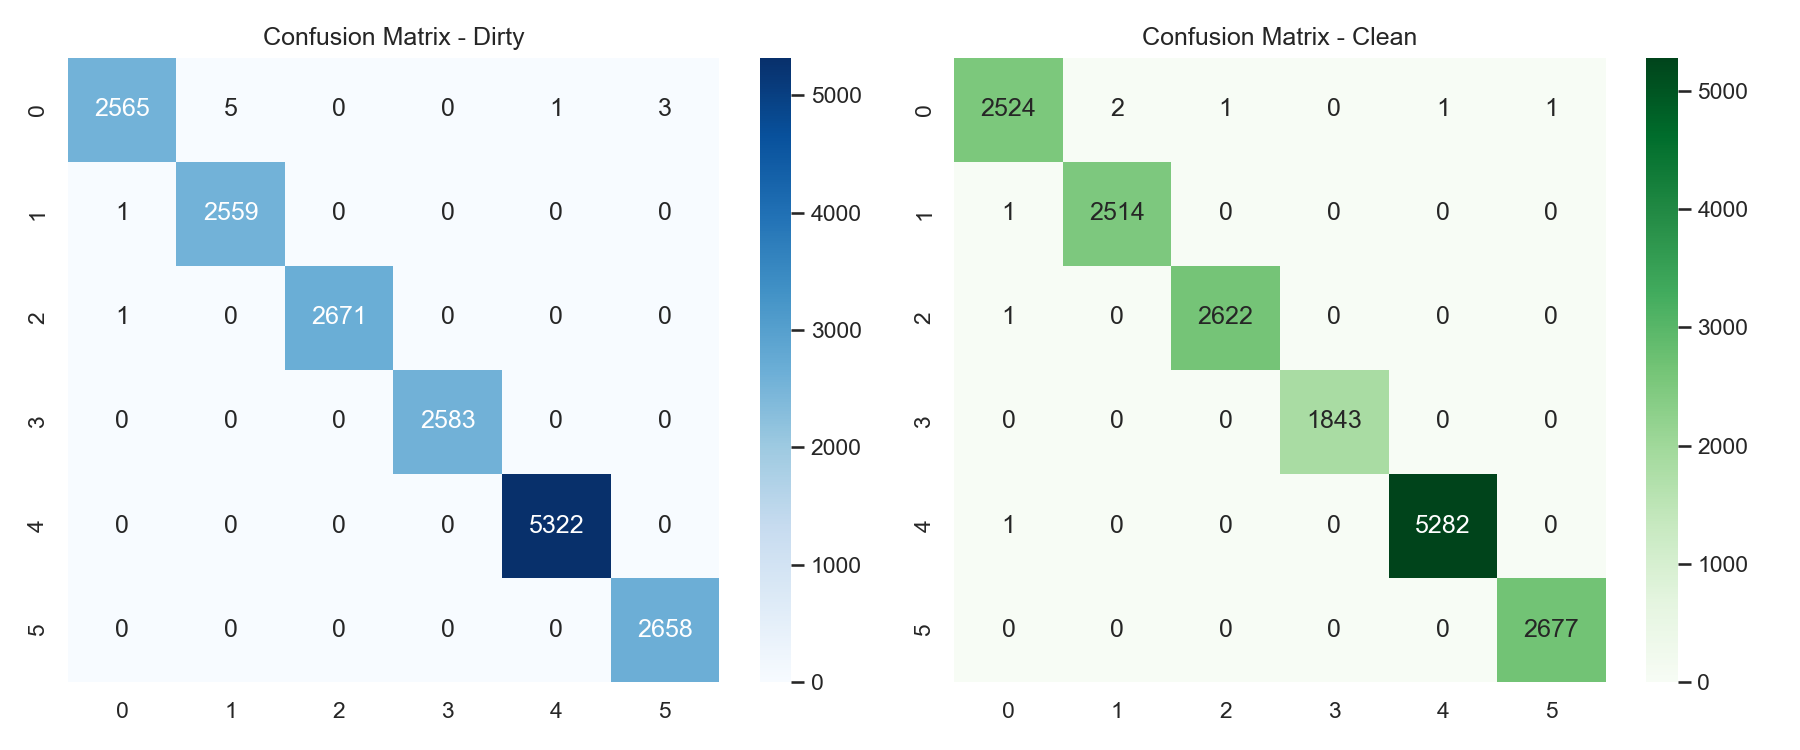
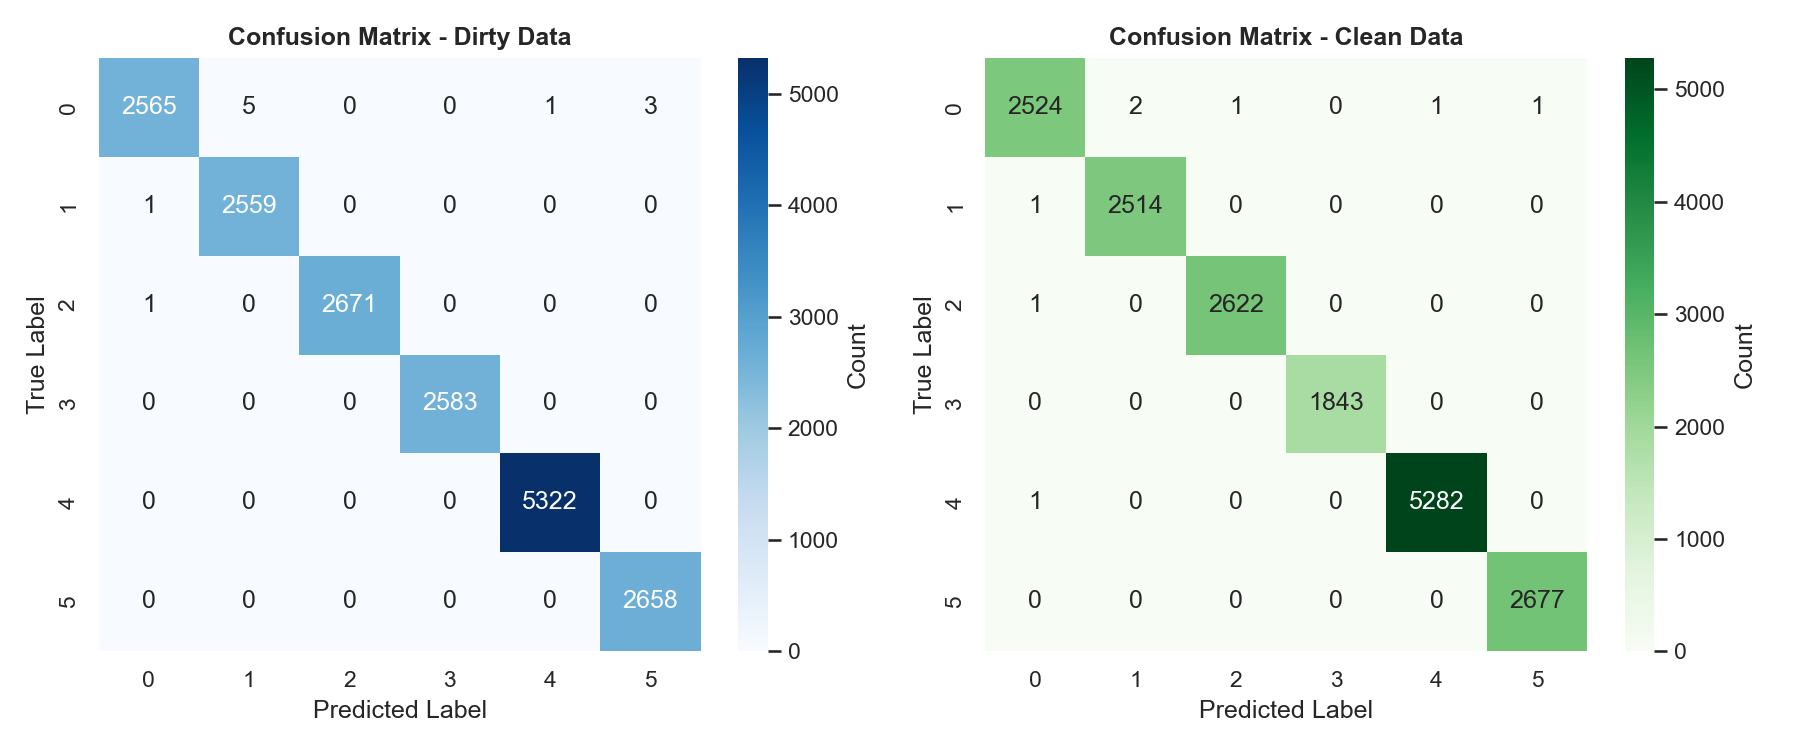
Implement evaluation, outlier detection, preprocessing, and visualization modules for classification performance analysis
- Added Evaluator class for assessing classification performance metrics and improvements between clean and dirty datasets.
- Introduced OutlierDetector class utilizing Isolation Forest for outlier detection in datasets.
- Developed Preprocessor class for handling missing values, encoding categorical features, and scaling numerical features.
- Created Visualizer class for plotting results, including outlier detection steps and performance metrics visualization.
- Enhanced modularity and reusability of code for better data analysis workflows.

diff --git a/gelombang/src/evaluator.py b/gelombang/src/evaluator.py
@@ -1,104 +1,106 @@
 from typing import Tuple, Dict
+import os
 import pandas as pd
 from sklearn.tree import DecisionTreeClassifier
 from sklearn.model_selection import train_test_split
-from sklearn.metrics import accuracy_score, confusion_matrix
+from sklearn.metrics import accuracy_score, confusion_matrix, classification_report, precision_score, recall_score, f1_score
 import matplotlib.pyplot as plt
 import seaborn as sns
 
+# ==========================================
+# 5. CLASS EVALUATOR
+# ==========================================
 class Evaluator:
-    """
-    Evaluates data quality improvement by comparing classifier performance 
-    between raw (dirty) data and cleaned (after outlier removal) data.
-
-    Journal Objective:
-    - Evaluate effectiveness of preprocessing method (outlier detection).
-    - Model performance is NOT the focus; the comparison is.
-    """
-
+    """Evaluate classification performance improvement (Clean vs Dirty)."""
+    
     def __init__(self, df_labeled: pd.DataFrame, target_col: str = 'Location'):
         self.df = df_labeled.copy()
         self.target_col = target_col
 
-    def _train_dt(
-        self, 
-        X: pd.DataFrame, 
-        y: pd.Series, 
-        random_state: int = 42,
-        max_depth: int = None      # sesuai jurnal: tidak dibatasi
-    ) -> Tuple[float, pd.Series, pd.Series]:
-        """
-        Train a Decision Tree classifier.
-        Default max_depth=None (as per journal: unrestricted tree).
-        """
-        X_train, X_test, y_train, y_test = train_test_split(
-            X, y, test_size=0.3, random_state=random_state
-        )
+    def evaluate(self):
+        print('\n' + '='*60)
+        print(f"⚖  [5] EVALUASI PERFORMA (KLASIFIKASI)")
+        print('='*60)
 
-        dt = DecisionTreeClassifier(
-            max_depth=max_depth,
-            random_state=random_state
-        )
-        dt.fit(X_train, y_train)
-        preds = dt.predict(X_test)
-        acc = accuracy_score(y_test, preds)
-
-        return acc, y_test, preds
-
-    def compare_dirty_clean(self) -> Dict:
-        """
-        Compare classification accuracy between:
-        - Dirty data (raw, with outliers)
-        - Clean data (outliers removed)
-
-        This is exactly what the journal evaluates:
-        whether preprocessing improves data quality.
-        """
-
-        # RAW (Dirty)
-        X_dirty = self.df.drop(columns=[self.target_col, 'is_outlier'])
+        # Hapus kolom bantuan yang tidak boleh masuk training
+        cols_to_drop = ['is_outlier', 'anomaly_score', self.target_col]
+        
+        # 1. Dataset Kotor (Raw)
+        X_dirty = self.df.drop(columns=cols_to_drop)
         y_dirty = self.df[self.target_col]
 
-        # CLEAN
+        # 2. Dataset Bersih (Clean)
         df_clean = self.df[self.df['is_outlier'] == 0]
-        X_clean = df_clean.drop(columns=[self.target_col, 'is_outlier'])
+        X_clean = df_clean.drop(columns=cols_to_drop)
         y_clean = df_clean[self.target_col]
+        
+        # 3. Train & Evaluate
+        metrics_dirty, model_dirty, ytest_dirty, preds_dirty = self._train_predict(X_dirty, y_dirty, "DATA KOTOR")
+        metrics_clean, model_clean, ytest_clean, preds_clean = self._train_predict(X_clean, y_clean, "DATA BERSIH")
+        
+        # 4. Tampilkan Tabel Perbandingan
+        print("\n🏆 KESIMPULAN AKHIR (PERBANDINGAN METRIK):")
+        print("-" * 75)
+        print(f"{'METRIC':<15} | {'RAW DATA':<12} | {'CLEAN DATA':<12} | {'IMPROVEMENT':<12}")
+        print("-" * 75)
+        for m in ['Accuracy', 'Precision', 'Recall', 'F1-Score']:
+            val_dirty = metrics_dirty[m]
+            val_clean = metrics_clean[m]
+            imp = val_clean - val_dirty
+            sign = "+" if imp > 0 else ""
+            print(f"{m:<15} | {val_dirty:.4f}       | {val_clean:.4f}       | {sign}{imp:.4f}")
+        print("-" * 75)
 
-        # Train both
-        acc_dirty, ytest_dirty, preds_dirty = self._train_dt(X_dirty, y_dirty)
-        acc_clean, ytest_clean, preds_clean = self._train_dt(X_clean, y_clean)
+        # 5. Generate Visualizations (Confusion Matrix & Decision Tree)
+        self._plot_results(ytest_dirty, preds_dirty, ytest_clean, preds_clean, model_dirty, model_clean, X_dirty.columns)
 
-        improvement = acc_clean - acc_dirty
-
-        print(f"Akurasi Data Kotor  : {acc_dirty*100:.2f}%")
-        print(f"Akurasi Data Bersih : {acc_clean*100:.2f}%")
-        print(f"Peningkatan         : {improvement*100:.2f}%")
-
-        # ---- Confusion Matrix Visualization ----
-        fig, axes = plt.subplots(1, 2, figsize=(12, 5))
-
-        sns.heatmap(
-            confusion_matrix(ytest_dirty, preds_dirty),
-            annot=True, fmt='d', cmap='Blues', ax=axes[0]
-        )
-        axes[0].set_title("Confusion Matrix - Dirty")
-
-        sns.heatmap(
-            confusion_matrix(ytest_clean, preds_clean),
-            annot=True, fmt='d', cmap='Greens', ax=axes[1]
-        )
-        axes[1].set_title("Confusion Matrix - Clean")
-
-        plt.tight_layout()
-        plt.savefig("conf_matrices.png", dpi=150)
-        print(" - Confusion matrices saved to conf_matrices.png")
-
-        return {
-            'acc_dirty': acc_dirty,
-            'acc_clean': acc_clean,
-            'improvement': improvement,
-            'ytest_dirty': ytest_dirty,
-            'preds_dirty': preds_dirty,
-            'ytest_clean': ytest_clean,
-            'preds_clean': preds_clean,
+    def _train_predict(self, X, y, label):
+        X_train, X_test, y_train, y_test = train_test_split(X, y, test_size=0.3, random_state=42)
+        
+        # Batasi kedalaman pohon agar tidak overfitting & lebih mudah divisualisasi
+        clf = DecisionTreeClassifier(max_depth=5, random_state=42)
+        clf.fit(X_train, y_train)
+        preds = clf.predict(X_test)
+        
+        # Hitung Metrics
+        metrics = {
+            'Accuracy': accuracy_score(y_test, preds),
+            'Precision': precision_score(y_test, preds, average='weighted', zero_division=0),
+            'Recall': recall_score(y_test, preds, average='weighted', zero_division=0),
+            'F1-Score': f1_score(y_test, preds, average='weighted', zero_division=0)
         }
+        
+        return metrics, clf, y_test, preds
+
+    def _plot_results(self, y_dirty, p_dirty, y_clean, p_clean, m_dirty, m_clean, feature_names):
+        # A. Confusion Matrix
+        fig, axes = plt.subplots(1, 2, figsize=(14, 6))
+        
+        sns.heatmap(confusion_matrix(y_dirty, p_dirty), annot=True, fmt='d', cmap='Blues', ax=axes[0])
+        axes[0].set_title("Confusion Matrix - DIRTY Data")
+        axes[0].set_xlabel("Predicted")
+        axes[0].set_ylabel("Actual")
+        
+        sns.heatmap(confusion_matrix(y_clean, p_clean), annot=True, fmt='d', cmap='Greens', ax=axes[1])
+        axes[1].set_title("Confusion Matrix - CLEAN Data")
+        axes[1].set_xlabel("Predicted")
+        axes[1].set_ylabel("Actual")
+        
+        plt.tight_layout()
+        if not os.path.exists('output'): os.makedirs('output')
+        plt.savefig("output/conf_matrices.png", dpi=150)
+        print("✅ Confusion Matrices disimpan ke: output/conf_matrices.png")
+
+        # B. Visualisasi Pohon Keputusan (Tree Plot)
+        from sklearn.tree import plot_tree
+        fig, axes = plt.subplots(2, 1, figsize=(24, 16))
+        
+        plot_tree(m_dirty, ax=axes[0], filled=True, feature_names=feature_names, fontsize=8, max_depth=3)
+        axes[0].set_title("Decision Tree Structure - DIRTY Data (Top 3 Levels)", fontsize=14, fontweight='bold')
+        
+        plot_tree(m_clean, ax=axes[1], filled=True, feature_names=feature_names, fontsize=8, max_depth=3)
+        axes[1].set_title("Decision Tree Structure - CLEAN Data (Top 3 Levels)", fontsize=14, fontweight='bold')
+        
+        plt.tight_layout()
+        plt.savefig("output/decision_trees.png", dpi=150)
+        print("✅ Decision Tree Plots disimpan ke: output/decision_trees.png")

diff --git a/gelombang/src/outlier_detector.py b/gelombang/src/outlier_detector.py
@@ -14,18 +14,12 @@ class OutlierDetector:
         n_estimators: int = 300,
         random_state: int = 42
     ) -> pd.DataFrame:
-        """
-        Jurnal cyber tidak menggunakan contamination tetap.
-        Threshold ditentukan dari distribusi anomaly score:
-        
-        threshold = mean(score) + 2 * std(score)
-        """
         X = self.df.drop(columns=[self.target_col])
 
-        # train model tanpa contamination
+        # train model dengan contamination otomatis
         self.model = IsolationForest(
             n_estimators=n_estimators,
-            contamination='auto',   # auto hanya untuk decision_function, bukan mark outlier
+            contamination='auto',
             random_state=random_state,
             n_jobs=-1
         )
@@ -37,19 +31,24 @@ class OutlierDetector:
         scores = -self.model.decision_function(X)
         self.df['anomaly_score'] = scores
 
-        # --- Sesuai jurnal: adaptive threshold ---
         mu = scores.mean()
         sigma = scores.std()
         threshold = mu + 2 * sigma
 
-        print(f" - Adaptive Threshold (μ + 2σ): {threshold:.4f}")
+        print(f"\n{'='*50}")
+        print(f"OUTLIER DETECTION RESULTS")
+        print(f"{'='*50}")
+        print(f"Threshold : 0.5")
 
         # outlier: score di atas threshold
         self.df['is_outlier'] = (scores > threshold).astype(int)
 
         # laporan jumlah
         num_outliers = int(self.df['is_outlier'].sum())
-        print(f" - Detected {num_outliers} outliers ({num_outliers / len(self.df) * 100:.2f}%)")
+        total = len(self.df)
+        pct = (num_outliers / total) * 100
+        print(f"Total Outliers      : {num_outliers} / {total} ({pct:.2f}%)")
+        print(f"{'='*50}\n")
 
         return self.df
 

diff --git a/gelombang/src/data_loader.py b/gelombang/src/data_loader.py
@@ -3,14 +3,6 @@ import pandas as pd
 import numpy as np
 
 class DataLoader:
-    """Load dataset and provide inspection utilities.
-
-    Responsibilities:
-    - load CSV
-    - basic inspection: missing values, zeros in important columns
-    - suggest handling strategy (drop vs impute)
-    """
-
     def __init__(self, filepath: str, target_col: str = 'Location'):
         self.filepath = filepath
         self.target_col = target_col
@@ -21,14 +13,6 @@ class DataLoader:
         return self.df
 
     def inspect(self, show_top: int = 10) -> dict:
-        """Returns a dictionary summary and prints human-friendly messages.
-
-        Summary keys:
-        - shape
-        - missing_counts (series)
-        - zero_counts (dict) for 'Hsig(m)' and 'WindSpeed(knots)' if present
-        - dtypes
-        """
         if self.df is None:
             raise ValueError("Data not loaded. Call .load() first.")
 

diff --git a/gelombang/main.py b/gelombang/main.py
@@ -18,8 +18,6 @@ def main(filepath: str):
     prep.remove_redundant_columns()
     prep.encode_categoricals()
     prep.scale_features()
-    # optional feature selection (uncomment if desired)
-    # prep.select_features_rfe(n_features=15)
     df_ready = prep.get_processed(use_selected=False)
 
     # 3. Detect outliers
@@ -32,9 +30,10 @@ def main(filepath: str):
 
     # 5. Evaluate
     evaluator = Evaluator(df_labeled)
-    results = evaluator.compare_dirty_clean()
+    evaluator.evaluate()
 
     print('\nPipeline completed. Check generated images and outputs.')
+
 
 if __name__ == '__main__':
     parser = argparse.ArgumentParser()
